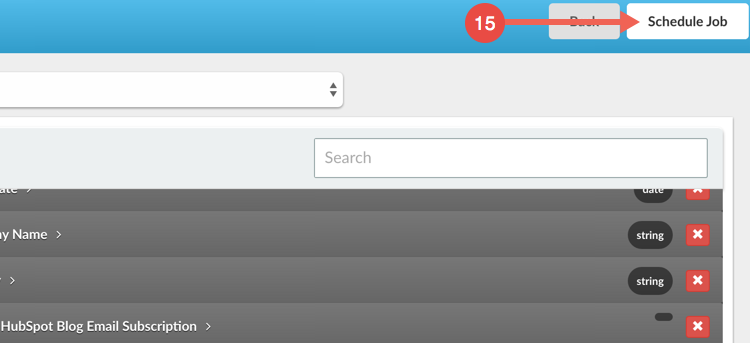
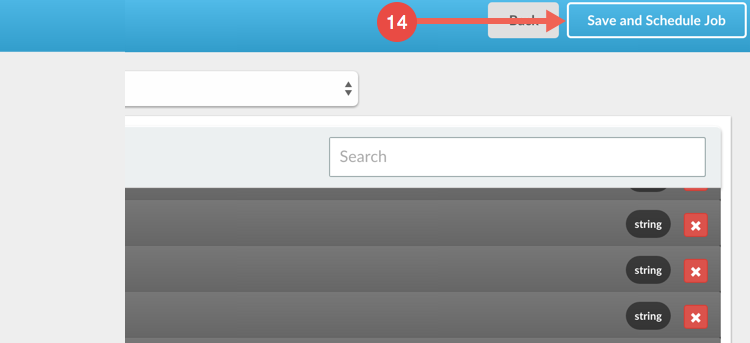
- Update help images - Add Wise help images - Fix loading style for mapped objects im Mapper

Changed region(s): [[0.0, 0.379, 0.9813, 1.0], [0.0, 0.0, 1.0, 0.1749], [0.0, 0.2332, 0.4907, 0.3207]]

diff --git a/src/main/webapp/scripts/help/HelpController.js b/src/main/webapp/scripts/help/HelpController.js
@@ -36,37 +36,32 @@ var HelpController = BaseController.extend({
 
         if (me._picker.getView() == 'mapper') {
             me.$scope.helpList = [
-                {imageURL: 'BulkloaderClickThrough-1.png'},
-                {imageURL: 'BulkloaderClickThrough-2.png'},
-                {imageURL: 'BulkloaderClickThrough-3.png'},
-                {imageURL: 'BulkloaderClickThrough-4.png'},
-                {imageURL: 'BulkloaderClickThrough-5.png'},
-                {imageURL: 'BulkloaderClickThrough-6.png'},
-                {imageURL: 'BulkloaderClickThrough-7.png'},
-                {imageURL: 'BulkloaderClickThrough-8.png'},
-                {imageURL: 'BulkloaderClickThrough-9.png'},
-                {imageURL: 'BulkloaderClickThrough-10.png'},
-                {imageURL: 'BulkloaderClickThrough-11.png'},
-                {imageURL: 'BulkloaderClickThrough-12.png'},
-                {imageURL: 'BulkloaderClickThrough-13.png'},
-                {imageURL: 'BulkloaderClickThrough-14.png'}
+                {imageURL: 'help-images/BulkloaderClickThrough-1.png', text:'Select a service, the source of your data..'},
+                {imageURL: 'help-images/BulkloaderClickThrough-2.png', text:'Enter your credentials for that service.'},
+                {imageURL: 'help-images/BulkloaderClickThrough-3.png', text:'Select HubSpot to connect your account.'},
+                {imageURL: 'help-images/BulkloaderClickThrough-4.png', text:'Enter your HubSpot Portal ID.'},
+                {imageURL: 'help-images/BulkloaderClickThrough-5.png', text:'Login to your HubSpot account.'},
+                {imageURL: 'help-images/BulkloaderClickThrough-6.png', text:'Authorize the application.'},
+                {imageURL: 'help-images/BulkloaderClickThrough-7.png', text:'Select an object to map from the source application.'},
+                {imageURL: 'help-images/BulkloaderClickThrough-8.png', text:'Select an object to map form target application.'},
+                {imageURL: 'help-images/BulkloaderClickThrough-9.png', text:'Drag and drop the fields you wish to map from the source to the target.'},
+                {imageURL: 'help-images/BulkloaderClickThrough-10.png', text:'The "X" will delete a field if necessary.'},
+                {imageURL: 'help-images/BulkloaderClickThrough-11.png', text:'Click "Save and Schedule Job".'},
+                {imageURL: 'help-images/BulkloaderClickThrough-12.png', text:'Select the calendar to choose a date.  Data will be pulled from your system starting from this date to the present time.'},
+                {imageURL: 'help-images/BulkloaderClickThrough-13.png', text:'Click "Schedule Job".'},
+                {imageURL: 'help-images/BulkloaderClickThrough-14.png', text:'Click "OK".  An email will notify you when the job has completed.'}
             ]
         } else {
             me.$scope.helpList = [
-                {imageURL: 'BulkloaderClickThrough-1.png'},
-                {imageURL: 'BulkloaderClickThrough-2.png'},
-                {imageURL: 'BulkloaderClickThrough-3.png'},
-                {imageURL: 'BulkloaderClickThrough-4.png'},
-                {imageURL: 'BulkloaderClickThrough-5.png'},
-                {imageURL: 'BulkloaderClickThrough-6.png'},
-                {imageURL: 'BulkloaderClickThrough-7.png'},
-                {imageURL: 'BulkloaderClickThrough-8.png'},
-                {imageURL: 'BulkloaderClickThrough-9.png'},
-                {imageURL: 'BulkloaderClickThrough-10.png'},
-                {imageURL: 'BulkloaderClickThrough-11.png'},
-                {imageURL: 'BulkloaderClickThrough-12.png'},
-                {imageURL: 'BulkloaderClickThrough-13.png'},
-                {imageURL: 'BulkloaderClickThrough-14.png'}
+                {imageURL: 'wise-help-images/BulkloaderClickThrough-01.png', text:'Select a service, the source of your data.'},
+                {imageURL: 'wise-help-images/BulkloaderClickThrough-02.png', text:'Enter your credentials for that service.'},
+                {imageURL: 'wise-help-images/BulkloaderClickThrough-03.png', text:'Select an object to map from the source application.'},
+                {imageURL: 'wise-help-images/BulkloaderClickThrough-04.png', text:'The button at the top will select all fields for the object.'},
+                {imageURL: 'wise-help-images/BulkloaderClickThrough-05.png', text:'Or select the fields you wish to map.'},
+                {imageURL: 'wise-help-images/BulkloaderClickThrough-06.png', text:'Click "Save and Schedule Job".'},
+                {imageURL: 'wise-help-images/BulkloaderClickThrough-07.png', text:'Select the calendar to choose a date.  Data will be pulled from your system starting from this date to the present time.'},
+                {imageURL: 'wise-help-images/BulkloaderClickThrough-08.png', text:'Click "Schedule Job".'},
+                {imageURL: 'wise-help-images/BulkloaderClickThrough-09.png', text:'Click "OK".  An email will notify you when the job has completed.'}
             ]
         }
 

diff --git a/src/main/webapp/mapper.html b/src/main/webapp/mapper.html
@@ -148,7 +148,7 @@
 
       <ul ui-tree-nodes="" ng-model="metadata.fields" ng-class="{hidden: collapsed}">
         <li ng-repeat="metadata in metadata.fields" ui-tree-node ng-include="'mapperFields.html'"
-            collapsed="false" ng-hide="!treeFilter(metadata, searchsource)">
+            collapsed="false" ng-hide="!treeFilter(metadata, searchsource)" ng-class="{'mapped': metadata.path}">
         </li>
       </ul>
 
@@ -170,7 +170,7 @@
           <li ng-repeat="metadata in mapperdata"
               ui-tree-node id="tree2-root-node" ng-include="'mapperFields.html'"
               collapsed="false"
-              ng-hide="!treeFilter(metadata, searchsource)" data-nodrag>
+              ng-hide="!treeFilter(metadata, searchsource)" data-nodrag ng-class="{'mapped': metadata.path}">
           </li>
         </ul>
       </li>

diff --git a/src/main/webapp/help.html b/src/main/webapp/help.html
@@ -6,7 +6,8 @@
 
   <div class="content">
     <script type="text/ng-template" id="helpimages.html">
-      <img src="images/help-images/{{items.imageURL}}" width="100%"/>
+      <img src="images/{{items.imageURL}}" width="100%"/>
+      <p style="width:100%; margin-top: 20px; color: #fff;">{{items.text}}</p>
     </script>
 
     <slick infinite="false" slides-to-show="1" slides-to-scroll="1" arrows="true" ng-modal="helpList">
